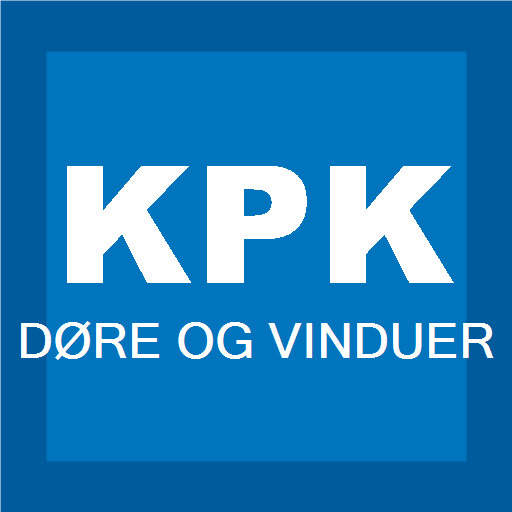
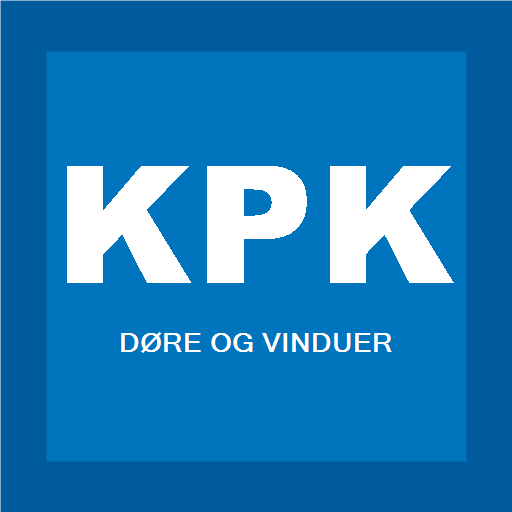
Refine KPK branding and language handling

Changed region(s): [[0.0312, 0.625, 0.7812, 0.7188], [0.7812, 0.625, 0.9688, 0.7188]]

diff --git a/index.html b/index.html
@@ -15,9 +15,9 @@
   </head>
   <body>
     <main class="app-shell">
-      <section class="topbar" aria-label="Данные работника">
+      <section class="topbar" aria-label="KPK Døre og Vinduer">
         <div class="brand-lockup">
-          <p class="eyebrow" data-i18n="workSheet">Рабочий лист</p>
+          <p class="eyebrow" data-i18n="workSheet">Arbejdsseddel</p>
           <img class="brand-logo" src="assets/kpk-logo.svg" alt="KPK Døre og Vinduer">
         </div>
         <div class="topbar-actions">
@@ -54,48 +54,48 @@
         <strong id="selectedDateLabel"></strong>
       </section>
 
-      <section class="worker-panel" aria-label="Основная информация">
+      <section class="worker-panel" aria-label="Grundoplysninger">
         <label class="full-name-field">
-          <span data-i18n="fullName">Имя и фамилия</span>
+          <span data-i18n="fullName">Navn og efternavn</span>
           <input id="firstName" autocomplete="name" placeholder="Navn og efternavn" data-i18n-placeholder="fullNamePlaceholder">
         </label>
         <label>
-          <span data-i18n="employeeNumber">Личный номер</span>
-          <input id="employeeNumber" inputmode="numeric" placeholder="Номер работника" data-i18n-placeholder="employeeNumberPlaceholder">
+          <span data-i18n="employeeNumber">Medarbejdernummer</span>
+          <input id="employeeNumber" inputmode="numeric" placeholder="Medarbejdernummer" data-i18n-placeholder="employeeNumberPlaceholder">
         </label>
         <label>
-          <span data-i18n="week">Неделя</span>
+          <span data-i18n="week">Uge</span>
           <input id="weekNumber" type="number" min="1" max="53">
         </label>
         <label>
-          <span data-i18n="day">День</span>
+          <span data-i18n="day">Dag</span>
           <select id="dayNumber">
-            <option value="1">1 - Понедельник</option>
-            <option value="2">2 - Вторник</option>
-            <option value="3">3 - Среда</option>
-            <option value="4">4 - Четверг</option>
-            <option value="5">5 - Пятница</option>
+            <option value="1">1 - Mandag</option>
+            <option value="2">2 - Tirsdag</option>
+            <option value="3">3 - Onsdag</option>
+            <option value="4">4 - Torsdag</option>
+            <option value="5">5 - Fredag</option>
           </select>
         </label>
         <input id="defaultPlace" type="hidden" value="440">
       </section>
 
-      <section class="table-section" aria-label="Работы за день">
+      <section class="table-section" aria-label="Arbejde for dagen">
         <div class="section-head">
-          <h2 data-i18n="seriesAndTime">Серии и время</h2>
+          <h2 data-i18n="seriesAndTime">Serier og tid</h2>
           <div class="row-actions">
-            <button class="text-button muted" id="meetingButton" type="button" data-i18n="addMeeting">+ Встреча 114</button>
-            <button class="text-button" id="addRowButton" type="button" data-i18n="addSeries">+ Серия</button>
+            <button class="text-button muted" id="meetingButton" type="button" data-i18n="addMeeting">+ Møde 114</button>
+            <button class="text-button" id="addRowButton" type="button" data-i18n="addSeries">+ Serie</button>
           </div>
         </div>
 
-        <div class="work-table" role="table" aria-label="Список работ">
+        <div class="work-table" role="table" aria-label="Arbejdsliste">
           <div class="work-row header" role="row">
-            <span data-i18n="place">Место</span>
-            <span data-i18n="series">Серия</span>
-            <span data-i18n="from">С</span>
-            <span data-i18n="to">До</span>
-            <span data-i18n="time">Время</span>
+            <span data-i18n="place">Plads</span>
+            <span data-i18n="series">Serie</span>
+            <span data-i18n="from">Fra</span>
+            <span data-i18n="to">Til</span>
+            <span data-i18n="time">Tid</span>
             <span></span>
             <span></span>
           </div>
@@ -103,7 +103,7 @@
         </div>
       </section>
 
-      <section class="summary-strip" aria-label="Итоги дня">
+      <section class="summary-strip" aria-label="Dagens totaler">
         <article>
           <span data-i18n="shift">Arbejdstid</span>
           <strong id="shiftWindow">06:00-15:05</strong>
@@ -114,13 +114,13 @@
         </article>
       </section>
 
-      <section class="print-sheet" aria-label="Готовый текст">
+      <section class="print-sheet" aria-label="Tekst til sedlen">
         <div class="section-head">
-          <h2 data-i18n="readyText">Как записать на листок</h2>
+          <h2 data-i18n="readyText">Tekst til sedlen</h2>
           <div class="print-actions">
             <span id="copyStatus" role="status"></span>
-            <button class="icon-button" id="printButton" type="button" title="Печать" data-i18n-title="print">⎙</button>
-            <button class="text-button" id="copyButton" type="button" data-i18n="copy">Копировать</button>
+            <button class="icon-button" id="printButton" type="button" title="Print" data-i18n-title="print">⎙</button>
+            <button class="text-button" id="copyButton" type="button" data-i18n="copy">Kopier</button>
           </div>
         </div>
         <pre id="sheetPreview"></pre>
@@ -131,27 +131,27 @@
     <template id="rowTemplate">
       <div class="work-row" role="row">
         <label>
-          <span data-i18n="place">Место</span>
+          <span data-i18n="place">Plads</span>
           <input class="place-input" inputmode="numeric" placeholder="440">
         </label>
         <label>
-          <span data-i18n="series">Серия</span>
-          <input class="series-input" placeholder="Номер серии" data-i18n-placeholder="seriesPlaceholder">
+          <span data-i18n="series">Serie</span>
+          <input class="series-input" placeholder="Serienummer" data-i18n-placeholder="seriesPlaceholder">
         </label>
         <label>
-          <span data-i18n="from">С</span>
+          <span data-i18n="from">Fra</span>
           <input class="start-input" type="time" step="300">
         </label>
         <label>
-          <span data-i18n="to">До</span>
+          <span data-i18n="to">Til</span>
           <input class="end-input" type="time" step="300">
         </label>
         <output class="duration-output">0,00</output>
-        <div class="move-controls" aria-label="Переместить строку" data-i18n-aria-label="moveRow">
-          <button class="move-button move-up" type="button" title="Вверх" data-i18n-title="moveUp">↑</button>
-          <button class="move-button move-down" type="button" title="Вниз" data-i18n-title="moveDown">↓</button>
+        <div class="move-controls" aria-label="Flyt række" data-i18n-aria-label="moveRow">
+          <button class="move-button move-up" type="button" title="Op" data-i18n-title="moveUp">↑</button>
+          <button class="move-button move-down" type="button" title="Ned" data-i18n-title="moveDown">↓</button>
         </div>
-        <button class="remove-button" type="button" title="Удалить строку" data-i18n-title="deleteRow">×</button>
+        <button class="remove-button" type="button" title="Slet række" data-i18n-title="deleteRow">×</button>
       </div>
     </template>
 

diff --git a/script.js b/script.js
@@ -335,7 +335,16 @@ function saveProfile(fullName, employeeNumber, defaultPlace) {
   localStorage.setItem(PROFILE_STORAGE_KEY, JSON.stringify({
     fullName,
     employeeNumber,
-    defaultPlace
+    defaultPlace,
+    language: state.language
+  }));
+}
+
+function saveLanguagePreference() {
+  const profile = getProfile();
+  localStorage.setItem(PROFILE_STORAGE_KEY, JSON.stringify({
+    ...profile,
+    language: state.language
   }));
 }
 
@@ -401,6 +410,10 @@ function applyLanguage() {
   updateDayOptions();
   renderCalendar();
   updateSelectedDateLabel();
+  normalizeRowsLanguage();
+}
+
+function normalizeRowsLanguage() {
   state.rows.forEach((row) => {
     if (row.type === "pause") {
       row.place.value = t("pause");
@@ -681,6 +694,7 @@ function buildPreview(rowUnits, totalUnits) {
 }
 
 function updateTotals() {
+  normalizeRowsLanguage();
   const rowUnits = state.rows.map(getRowUnits);
   const totalUnits = rowUnits.reduce((sum, units) => sum + units, 0);
 
@@ -926,6 +940,7 @@ elements.dayNumber.addEventListener("change", () => {
 elements.languageSelect.addEventListener("change", () => {
   state.language = elements.languageSelect.value;
   state.languagePreferenceSet = true;
+  saveLanguagePreference();
   applyLanguage();
   updateTotals();
 });
@@ -958,6 +973,8 @@ elements.copyButton.addEventListener("click", copyPreview);
 elements.printButton.addEventListener("click", () => window.print());
 
 state.language = DEFAULT_LANGUAGE;
+const initialProfile = getProfile();
+state.language = I18N[initialProfile.language] ? initialProfile.language : DEFAULT_LANGUAGE;
 elements.languageSelect.value = state.language;
 applyLanguage();
 showCalendar();

diff --git a/styles.css b/styles.css
@@ -41,12 +41,15 @@ select {
   align-items: center;
   justify-content: space-between;
   gap: 18px;
-  padding: 18px 0;
+  padding: 16px;
+  border-radius: 8px;
+  background: #0074bd;
+  box-shadow: var(--shadow);
 }
 
 .eyebrow {
   margin: 0 0 4px;
-  color: var(--accent-dark);
+  color: rgba(255, 255, 255, 0.86);
   font-size: 0.78rem;
   font-weight: 700;
   letter-spacing: 0;
@@ -59,7 +62,7 @@ select {
 
 .brand-logo {
   display: block;
-  width: min(280px, 62vw);
+  width: min(360px, 58vw);
   height: auto;
 }
 
@@ -92,9 +95,13 @@ h2 {
 }
 
 .language-control span {
-  color: var(--muted);
+  color: rgba(255, 255, 255, 0.86);
   font-size: 0.72rem;
   font-weight: 700;
+}
+
+.topbar .language-control select {
+  border-color: rgba(255, 255, 255, 0.48);
 }
 
 .section-head {
@@ -498,7 +505,7 @@ pre {
   }
 
   .brand-logo {
-    width: min(240px, 72vw);
+    width: min(280px, 82vw);
   }
 
   .text-button {

diff --git a/service-worker.js b/service-worker.js
@@ -1,4 +1,4 @@
-const CACHE_NAME = "kpk-arbejdsseddel-v3";
+const CACHE_NAME = "kpk-arbejdsseddel-v4";
 const APP_FILES = [
   "./",
   "./index.html",
